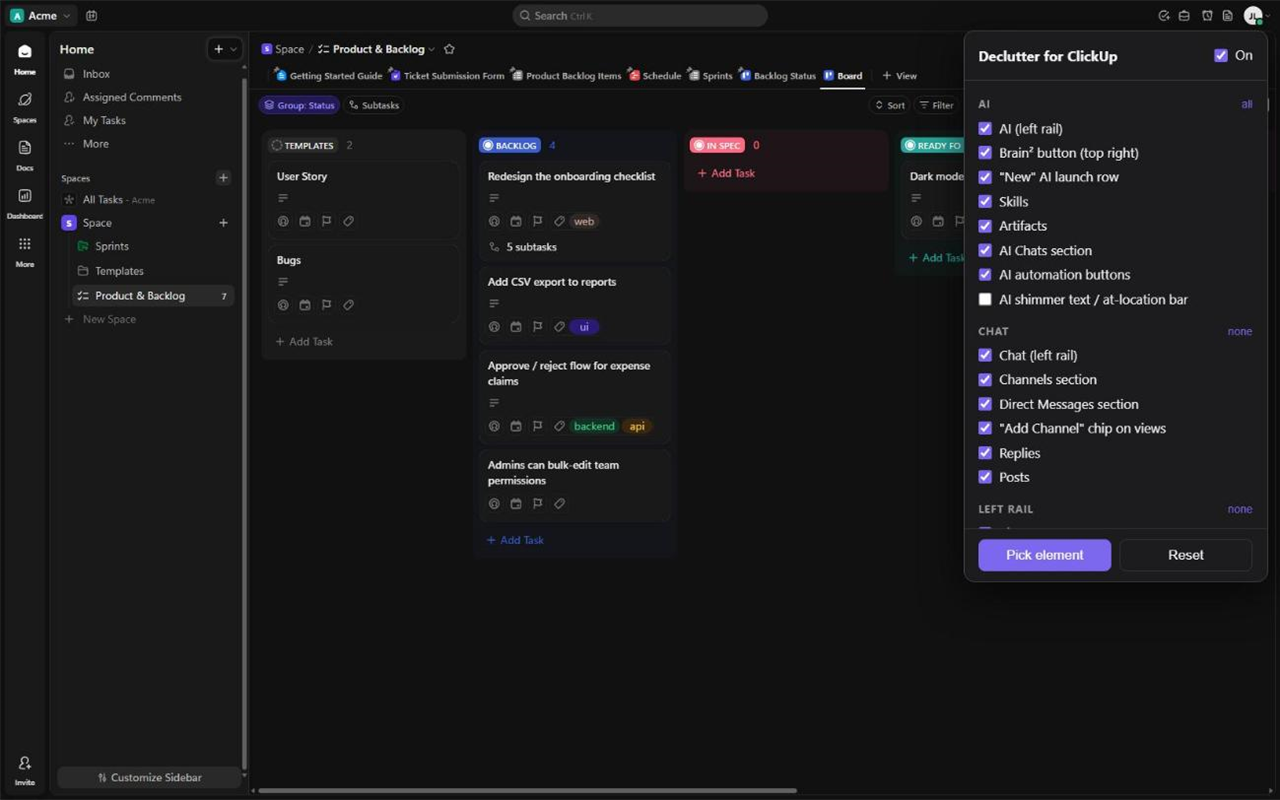
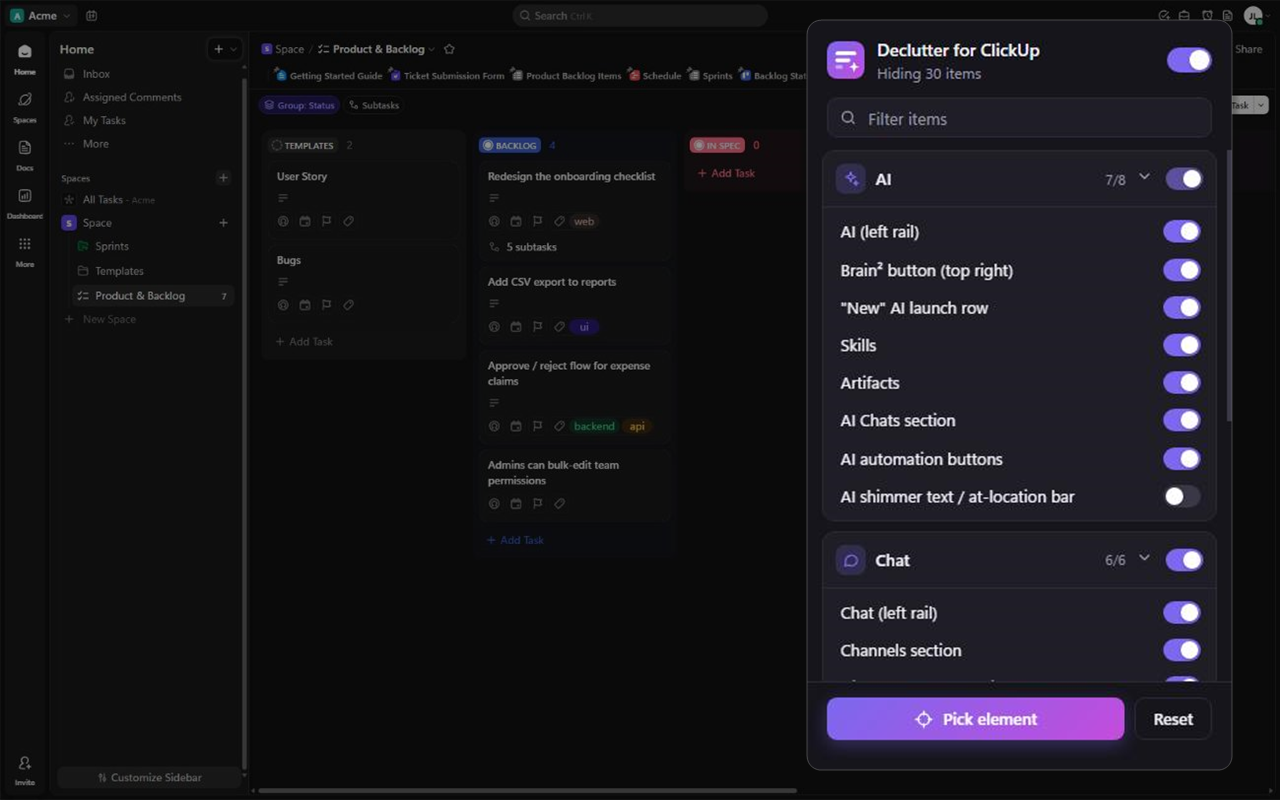
Redesign the popup
- Collapsible group cards with icons, on/total counts and a group switch
  (tinted when partly on); groups start collapsed, open state remembered
- Toggle switches instead of checkboxes, filter box (matches item and
  group names), live "Hiding N items" summary, dimmed list when paused
- Gradient Pick element button, two-step Reset instead of instant wipe
- Light and dark themes, thin scrollbar, accessible names on switches
- Store screenshot 4 now shows the new popup over the After view

diff --git a/popup.html b/popup.html
@@ -3,39 +3,171 @@
 <head>
   <meta charset="utf-8">
   <style>
-    :root { --bg: #fff; --fg: #1d1d1f; --muted: #6e6e73; --line: #e5e5ea; --accent: #7b68ee; }
-    @media (prefers-color-scheme: dark) {
-      :root { --bg: #1c1c1e; --fg: #f2f2f7; --muted: #98989d; --line: #38383a; }
+    :root {
+      --bg: #ffffff;
+      --surface: #f6f5fa;
+      --surface-hover: #efedf7;
+      --fg: #1b1a22;
+      --muted: #6f6c80;
+      --line: #e6e3f0;
+      --track: #d6d3e2;
+      --accent: #7b68ee;
+      --accent-2: #c44cdc;
+      --accent-soft: rgba(123, 104, 238, 0.12);
+      --danger: #e5484d;
+      --shadow: 0 1px 2px rgba(20, 16, 40, 0.06);
     }
-    body { margin: 0; width: 300px; background: var(--bg); color: var(--fg); font: 13px/1.4 system-ui, sans-serif; }
-    header { display: flex; align-items: center; justify-content: space-between; padding: 12px 14px; border-bottom: 1px solid var(--line); }
-    h1 { margin: 0; font-size: 14px; }
-    main { max-height: 440px; overflow-y: auto; padding: 4px 14px 10px; }
-    h2 { display: flex; justify-content: space-between; margin: 12px 0 4px; font-size: 11px; text-transform: uppercase; letter-spacing: .04em; color: var(--muted); }
-    h2 button { border: 0; background: none; color: var(--accent); font-size: 11px; cursor: pointer; padding: 0; }
-    label { display: flex; gap: 8px; align-items: center; padding: 3px 0; cursor: pointer; }
-    input[type=checkbox] { accent-color: var(--accent); margin: 0; }
-    .custom { display: flex; justify-content: space-between; gap: 6px; padding: 3px 0; font: 11px ui-monospace, Consolas, monospace; word-break: break-all; }
-    .custom button { border: 0; background: none; color: var(--muted); cursor: pointer; font-size: 14px; line-height: 1; }
-    .empty { color: var(--muted); font-size: 12px; }
-    footer { display: flex; gap: 8px; padding: 10px 14px; border-top: 1px solid var(--line); }
-    footer button { flex: 1; padding: 7px; border-radius: 6px; border: 1px solid var(--line); background: none; color: var(--fg); cursor: pointer; }
-    footer button.primary { background: var(--accent); border-color: var(--accent); color: #fff; }
-    #msg { padding: 0 14px 10px; color: #ff453a; font-size: 12px; }
+    @media (prefers-color-scheme: dark) {
+      :root {
+        --bg: #16151c;
+        --surface: #1f1e27;
+        --surface-hover: #272632;
+        --fg: #f1f0f7;
+        --muted: #9a97ab;
+        --line: #2c2a37;
+        --track: #3a3847;
+        --accent-soft: rgba(123, 104, 238, 0.2);
+        --shadow: none;
+      }
+    }
+
+    * { box-sizing: border-box; }
+    body {
+      margin: 0; width: 340px; max-height: 590px;
+      display: flex; flex-direction: column;
+      background: var(--bg); color: var(--fg);
+      font: 13px/1.4 "Segoe UI Variable Text", "Segoe UI", system-ui, -apple-system, sans-serif;
+      -webkit-font-smoothing: antialiased;
+    }
+    button { font: inherit; color: inherit; }
+    svg { flex: none; }
+
+    /* header */
+    header { display: flex; align-items: center; gap: 10px; padding: 14px 16px 12px; }
+    header img { width: 30px; height: 30px; border-radius: 8px; }
+    .title { flex: 1; min-width: 0; }
+    .title b { display: block; font-size: 14px; font-weight: 600; letter-spacing: -0.01em; }
+    .title span { display: block; font-size: 12px; color: var(--muted); }
+
+    /* switches */
+    .switch {
+      appearance: none; -webkit-appearance: none; margin: 0; flex: none; cursor: pointer;
+      width: 30px; height: 18px; border-radius: 999px; background: var(--track);
+      position: relative; transition: background .15s ease;
+    }
+    .switch::after {
+      content: ""; position: absolute; top: 2px; left: 2px; width: 14px; height: 14px;
+      border-radius: 50%; background: #fff; box-shadow: 0 1px 2px rgba(0, 0, 0, .25);
+      transition: transform .15s ease;
+    }
+    .switch:checked { background: var(--accent); }
+    .switch:checked::after { transform: translateX(12px); }
+    /* some items in the group on: tinted track, knob on */
+    .switch:indeterminate { background: color-mix(in srgb, var(--accent) 50%, var(--track)); }
+    .switch:indeterminate::after { transform: translateX(12px); }
+    .switch:focus-visible { outline: 2px solid var(--accent); outline-offset: 2px; }
+    .switch.lg { width: 36px; height: 20px; }
+    .switch.lg::after { width: 16px; height: 16px; }
+    .switch.lg:checked::after { transform: translateX(16px); }
+
+    /* search */
+    .search { position: relative; margin: 0 16px 10px; }
+    .search svg { position: absolute; left: 10px; top: 50%; transform: translateY(-50%); color: var(--muted); }
+    .search input {
+      width: 100%; height: 32px; padding: 0 10px 0 32px; border-radius: 8px;
+      border: 1px solid var(--line); background: var(--surface); color: var(--fg); font: inherit; outline: none;
+    }
+    .search input:focus { border-color: var(--accent); box-shadow: 0 0 0 3px var(--accent-soft); }
+    .search input::placeholder { color: var(--muted); }
+
+    /* list */
+    main { flex: 1; overflow-y: auto; padding: 0 12px 12px; scrollbar-width: thin; scrollbar-color: var(--track) transparent; }
+    body.off main { opacity: .45; }
+
+    .group { background: var(--surface); border: 1px solid var(--line); border-radius: 10px; margin-bottom: 8px; box-shadow: var(--shadow); overflow: hidden; }
+    .group-head { display: flex; align-items: center; gap: 8px; padding: 8px 10px 8px 8px; }
+    .group-toggle {
+      flex: 1; display: flex; align-items: center; gap: 8px; min-width: 0;
+      background: none; border: 0; padding: 2px; cursor: pointer; text-align: left; border-radius: 6px;
+    }
+    .group-icon {
+      width: 24px; height: 24px; border-radius: 7px; display: grid; place-items: center;
+      background: var(--accent-soft); color: var(--accent);
+    }
+    .group-name { font-weight: 600; }
+    .count { margin-left: auto; font-size: 11px; color: var(--muted); font-variant-numeric: tabular-nums; }
+    .chev { color: var(--muted); transition: transform .15s ease; }
+    .group.collapsed .chev { transform: rotate(-90deg); }
+    .group.collapsed .items { display: none; }
+
+    .items { border-top: 1px solid var(--line); padding: 4px; }
+    .item {
+      display: flex; align-items: center; gap: 10px; padding: 6px 8px 6px 10px;
+      border-radius: 6px; cursor: pointer; user-select: none;
+    }
+    .item:hover { background: var(--surface-hover); }
+    .item span { flex: 1; min-width: 0; }
+
+    /* picked */
+    .picked .items { display: flex; flex-direction: column; gap: 2px; }
+    .chip { display: flex; align-items: center; gap: 6px; padding: 5px 6px 5px 10px; border-radius: 6px; }
+    .chip:hover { background: var(--surface-hover); }
+    .chip code { flex: 1; min-width: 0; font: 11px/1.4 ui-monospace, "Cascadia Code", Consolas, monospace; color: var(--muted); overflow-wrap: anywhere; }
+    .icon-btn {
+      width: 24px; height: 24px; display: grid; place-items: center; flex: none;
+      border: 0; border-radius: 6px; background: none; color: var(--muted); cursor: pointer;
+    }
+    .icon-btn:hover { background: var(--line); color: var(--fg); }
+    .empty { padding: 8px 10px 10px; color: var(--muted); font-size: 12px; }
+    .no-match { padding: 24px 0; text-align: center; color: var(--muted); }
+
+    /* footer */
+    footer { display: flex; gap: 8px; padding: 12px 16px 14px; border-top: 1px solid var(--line); }
+    .btn {
+      height: 34px; padding: 0 14px; border-radius: 8px; cursor: pointer;
+      display: inline-flex; align-items: center; justify-content: center; gap: 8px;
+      border: 1px solid var(--line); background: var(--bg); font-weight: 500;
+      transition: background .15s ease, border-color .15s ease, color .15s ease;
+    }
+    .btn:hover { background: var(--surface-hover); }
+    .btn.primary {
+      flex: 1; border: 0; color: #fff;
+      background: linear-gradient(135deg, var(--accent), var(--accent-2));
+      box-shadow: 0 4px 14px rgba(123, 104, 238, .35);
+    }
+    .btn.primary:hover { filter: brightness(1.07); }
+    .btn.confirm { border-color: var(--danger); color: var(--danger); }
+
+    #msg { margin: -4px 16px 12px; padding: 8px 10px; border-radius: 8px; font-size: 12px; color: var(--danger); background: rgba(229, 72, 77, .1); }
     #msg:empty { display: none; }
   </style>
 </head>
 <body>
   <header>
-    <h1>Declutter for ClickUp</h1>
-    <label title="Turn everything off"><input type="checkbox" id="master"> On</label>
+    <img src="icons/48.png" alt="">
+    <div class="title">
+      <b>Declutter for ClickUp</b>
+      <span id="summary">&nbsp;</span>
+    </div>
+    <input type="checkbox" class="switch lg" id="master" title="Turn everything on or off" aria-label="Enabled">
   </header>
+
+  <div class="search">
+    <svg width="14" height="14" viewBox="0 0 24 24" fill="none" stroke="currentColor" stroke-width="2.2" stroke-linecap="round"><circle cx="11" cy="11" r="7"/><path d="m20 20-3.5-3.5"/></svg>
+    <input id="filter" type="search" placeholder="Filter items" autocomplete="off">
+  </div>
+
   <main id="list"></main>
-  <footer>
-    <button id="pick" class="primary">Pick element</button>
-    <button id="reset">Reset</button>
-  </footer>
   <div id="msg"></div>
+
+  <footer>
+    <button id="pick" class="btn primary">
+      <svg width="15" height="15" viewBox="0 0 24 24" fill="none" stroke="currentColor" stroke-width="2.2" stroke-linecap="round"><circle cx="12" cy="12" r="7"/><path d="M12 2v4M12 18v4M2 12h4M18 12h4"/></svg>
+      Pick element
+    </button>
+    <button id="reset" class="btn" title="Restore default settings">Reset</button>
+  </footer>
+
   <script src="rules.js"></script>
   <script src="popup.js"></script>
 </body>

diff --git a/popup.js b/popup.js
@@ -4,43 +4,123 @@ let state = { off: false, enabled: {}, custom: [] };
 const isOn = (r) => (r.id in state.enabled ? state.enabled[r.id] : r.def);
 const save = () => chrome.storage.sync.set({ cud: state });
 
+// Groups start collapsed; which ones are open is a per-browser UI preference, not a synced setting.
+let expanded = new Set();
+try { expanded = new Set(JSON.parse(localStorage.getItem('cud-expanded') || '[]')); } catch {}
+const saveExpanded = () => { try { localStorage.setItem('cud-expanded', JSON.stringify([...expanded])); } catch {} };
+
+const SVG = (d) => `<svg width="14" height="14" viewBox="0 0 24 24" fill="none" stroke="currentColor" stroke-width="2" stroke-linecap="round" stroke-linejoin="round">${d}</svg>`;
+const ICONS = {
+  'AI': SVG('<path d="M12 3l1.8 4.7L18.5 9.5l-4.7 1.8L12 16l-1.8-4.7L5.5 9.5l4.7-1.8z"/><path d="M19 15l.8 2.2L22 18l-2.2.8L19 21l-.8-2.2L16 18l2.2-.8z"/>'),
+  'Chat': SVG('<path d="M21 12a8 8 0 0 1-11.6 7.1L4 20l1-4.6A8 8 0 1 1 21 12z"/>'),
+  'Sidebar': SVG('<rect x="3" y="4" width="18" height="16" rx="2"/><path d="M9 4v16"/>'),
+  'Left rail': SVG('<path d="M4 6h4M4 12h4M4 18h4"/><path d="M12 6h8M12 12h8M12 18h8"/>'),
+  'Top bar': SVG('<rect x="3" y="4" width="18" height="16" rx="2"/><path d="M3 9h18"/>'),
+  'Popups & nags': SVG('<path d="M6 8a6 6 0 0 1 12 0c0 7 3 9 3 9H3s3-2 3-9"/><path d="M10.3 21a1.9 1.9 0 0 0 3.4 0"/>'),
+  'Picked': SVG('<circle cx="12" cy="12" r="7"/><path d="M12 2v4M12 18v4M2 12h4M18 12h4"/>'),
+};
+const CHEV = SVG('<path d="m6 9 6 6 6-6"/>');
+const CLOSE = SVG('<path d="M18 6 6 18M6 6l12 12"/>');
+
 function el(tag, props = {}, ...kids) {
   const e = Object.assign(document.createElement(tag), props);
   e.append(...kids);
   return e;
 }
+const html = (tag, className, markup) => { const e = el(tag, { className }); e.innerHTML = markup; return e; };
+
+function groupCard(name, count, body, groupSwitch) {
+  const card = el('section', { className: 'group' + (expanded.has(name) ? '' : ' collapsed') });
+  const toggle = el('button', { className: 'group-toggle', ariaExpanded: String(expanded.has(name)) },
+    html('span', 'group-icon', ICONS[name] || ICONS.Picked),
+    el('span', { className: 'group-name', textContent: name }),
+    el('span', { className: 'count', textContent: count }),
+    html('span', 'chev', CHEV));
+  toggle.onclick = () => {
+    const isCollapsed = card.classList.toggle('collapsed');
+    isCollapsed ? expanded.delete(name) : expanded.add(name);
+    toggle.ariaExpanded = String(!isCollapsed);
+    saveExpanded();
+  };
+  const head = el('div', { className: 'group-head' }, toggle);
+  if (groupSwitch) head.append(groupSwitch);
+  card.append(head, body);
+  return card;
+}
 
 function render() {
+  const query = $('filter').value.trim().toLowerCase();
+  const hiddenCount = CUD_RULES.filter(isOn).length + state.custom.length;
   $('master').checked = !state.off;
+  document.body.classList.toggle('off', state.off);
+  $('summary').textContent = state.off ? 'Paused, ClickUp is untouched' : `Hiding ${hiddenCount} item${hiddenCount === 1 ? '' : 's'}`;
+
   const list = $('list');
+  const scroll = list.scrollTop;
   list.replaceChildren();
 
   for (const group of CUD_GROUPS) {
-    const rules = CUD_RULES.filter((r) => r.group === group);
-    const allOn = rules.every(isOn);
-    const toggleAll = el('button', { textContent: allOn ? 'none' : 'all' });
-    toggleAll.onclick = () => { rules.forEach((r) => (state.enabled[r.id] = !allOn)); save(); render(); };
-    list.append(el('h2', {}, group, toggleAll));
+    const groupMatch = group.toLowerCase().includes(query);
+    const rules = CUD_RULES.filter((r) => r.group === group && (groupMatch || r.label.toLowerCase().includes(query)));
+    if (!rules.length) continue;
+    const on = rules.filter(isOn).length;
 
+    const all = el('input', { type: 'checkbox', className: 'switch', title: 'Toggle the whole group', ariaLabel: `Hide all ${group}` });
+    all.checked = on === rules.length;
+    all.indeterminate = on > 0 && on < rules.length;
+    all.onchange = () => { rules.forEach((r) => (state.enabled[r.id] = all.checked)); save(); render(); };
+
+    const items = el('div', { className: 'items' });
     for (const r of rules) {
-      const cb = el('input', { type: 'checkbox', checked: isOn(r) });
-      cb.onchange = () => { state.enabled[r.id] = cb.checked; save(); };
-      list.append(el('label', {}, cb, r.label));
+      const sw = el('input', { type: 'checkbox', className: 'switch', checked: isOn(r), ariaLabel: `Hide ${r.label}` });
+      sw.onchange = () => { state.enabled[r.id] = sw.checked; save(); render(); };
+      items.append(el('label', { className: 'item' }, el('span', { textContent: r.label }), sw));
     }
+    // Searching opens matching groups even if they were collapsed.
+    const card = groupCard(group, `${on}/${rules.length}`, items, all);
+    if (query) card.classList.remove('collapsed');
+    list.append(card);
   }
 
-  list.append(el('h2', {}, 'Picked elements'));
-  if (!state.custom.length) list.append(el('div', { className: 'empty', textContent: 'Nothing yet. Use "Pick element".' }));
-  state.custom.forEach((sel, i) => {
-    const rm = el('button', { textContent: '×', title: 'Show again' });
-    rm.onclick = () => { state.custom.splice(i, 1); save(); render(); };
-    list.append(el('div', { className: 'custom' }, el('span', { textContent: sel }), rm));
-  });
+  const custom = state.custom.filter((s) => !query || s.toLowerCase().includes(query));
+  if (!query || custom.length) {
+    const items = el('div', { className: 'items' });
+    if (!state.custom.length) items.append(el('div', { className: 'empty', textContent: 'Nothing picked yet. Use Pick element to hide anything on the page.' }));
+    custom.forEach((sel) => {
+      const rm = html('button', 'icon-btn', CLOSE);
+      rm.title = 'Show again';
+      rm.onclick = () => { state.custom = state.custom.filter((s) => s !== sel); save(); render(); };
+      items.append(el('div', { className: 'chip' }, el('code', { textContent: sel }), rm));
+    });
+    const card = groupCard('Picked', String(state.custom.length), items);
+    card.classList.add('picked');
+    list.append(card);
+  }
+
+  if (!list.children.length) list.append(el('div', { className: 'no-match', textContent: 'No items match.' }));
+  list.scrollTop = scroll;
 }
 
-$('master').onchange = (e) => { state.off = !e.target.checked; save(); };
+$('master').onchange = (e) => { state.off = !e.target.checked; save(); render(); };
+$('filter').oninput = render;
 
-$('reset').onclick = () => { state = { off: false, enabled: {}, custom: [] }; save(); render(); };
+// Reset asks for a second click instead of a native confirm() dialog.
+let resetTimer;
+$('reset').onclick = () => {
+  const btn = $('reset');
+  if (!btn.classList.contains('confirm')) {
+    btn.classList.add('confirm');
+    btn.textContent = 'Confirm';
+    resetTimer = setTimeout(() => { btn.classList.remove('confirm'); btn.textContent = 'Reset'; }, 3000);
+    return;
+  }
+  clearTimeout(resetTimer);
+  btn.classList.remove('confirm');
+  btn.textContent = 'Reset';
+  state = { off: false, enabled: {}, custom: [] };
+  save();
+  render();
+};
 
 $('pick').onclick = async () => {
   const [tab] = await chrome.tabs.query({ active: true, currentWindow: true });

diff --git a/CHANGELOG.md b/CHANGELOG.md
@@ -6,5 +6,5 @@
 - Hide rules for Chat (Chat rail, Channels, Direct Messages, Replies, Posts, "Add Channel" chip).
 - Hide rules for unused rail items (Planner, Teams, Whiteboards, Forms, Clips, Install, Upgrade) and top-bar icons (SyncUp, record clip, talk to text, notepad).
 - Hides "What's new" cards, product tours and upgrade banners.
-- Popup with per-item and per-group toggles plus a master switch.
+- Popup with collapsible group cards, per-item and per-group switches, a filter box, a live "Hiding N items" count, a master switch, light and dark themes, and a two-step Reset.
 - "Pick element" to hide anything else, with parent/child navigation.
